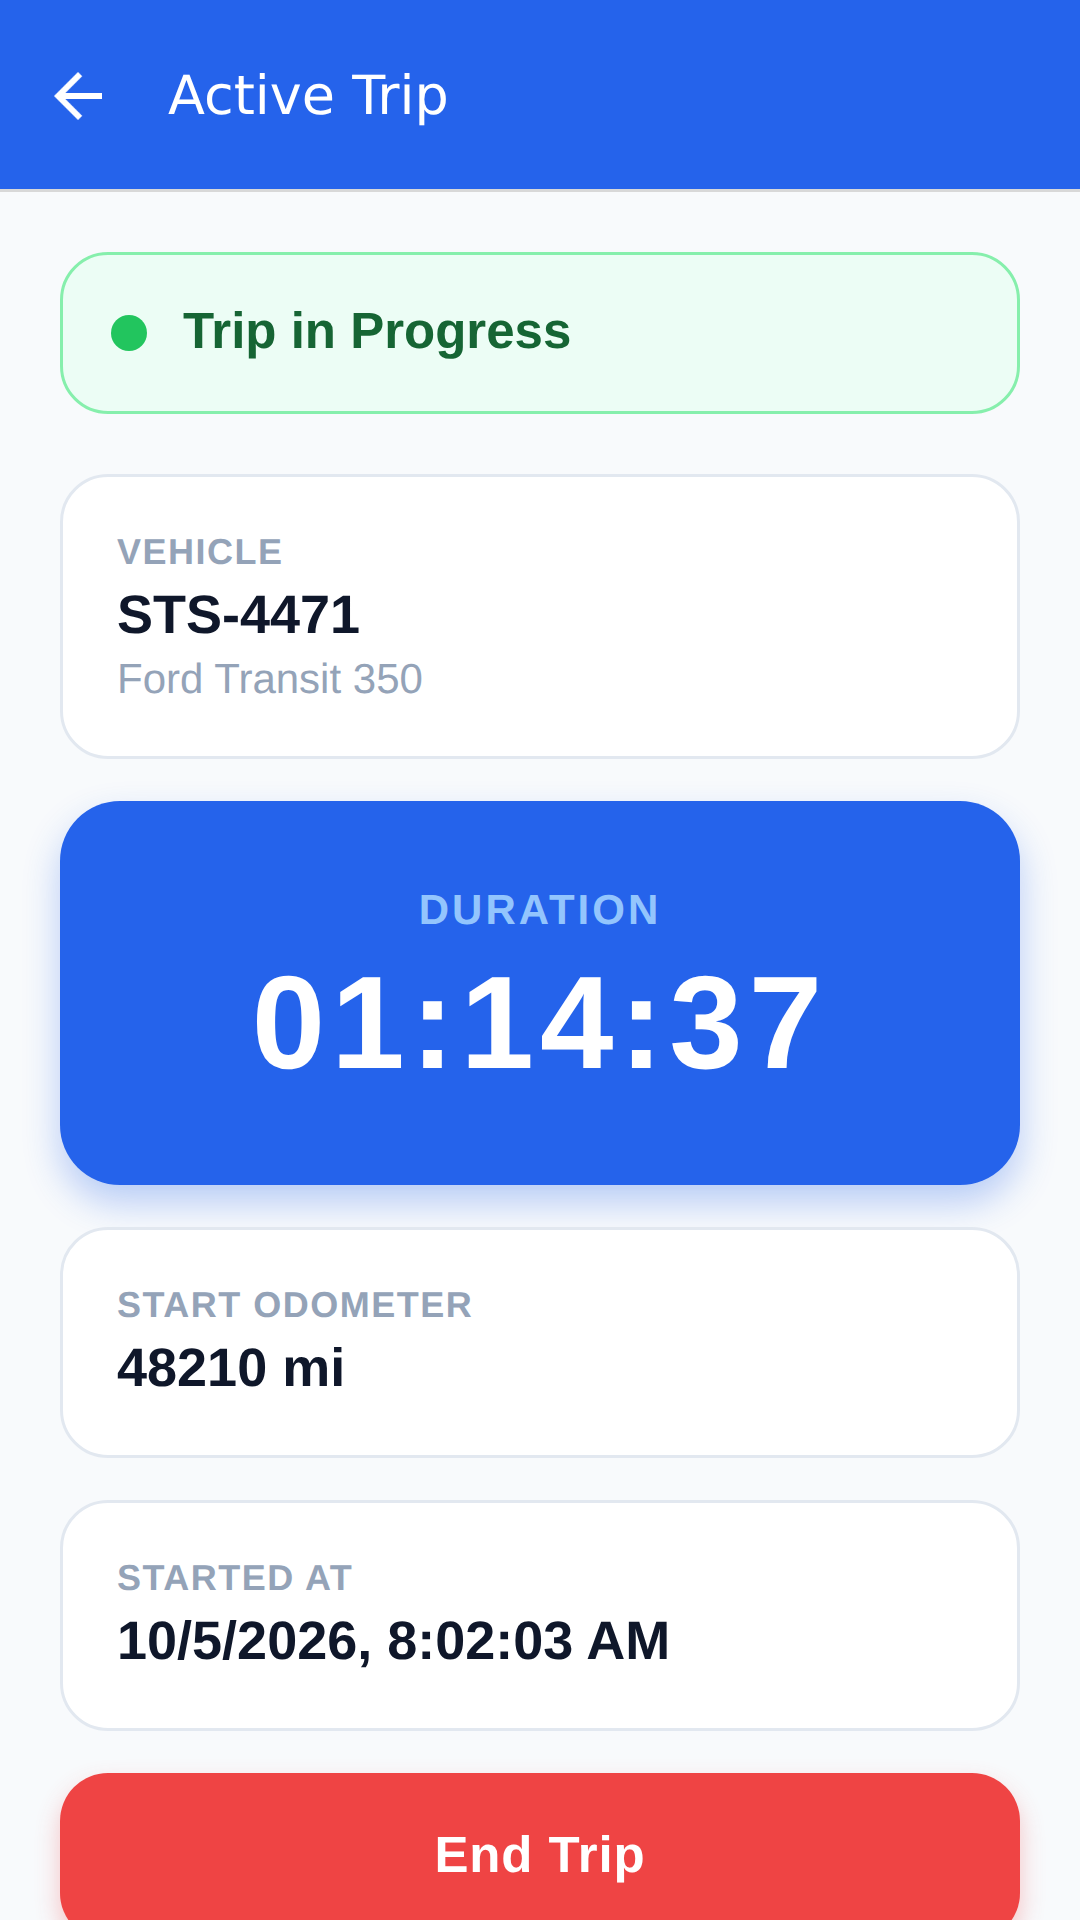
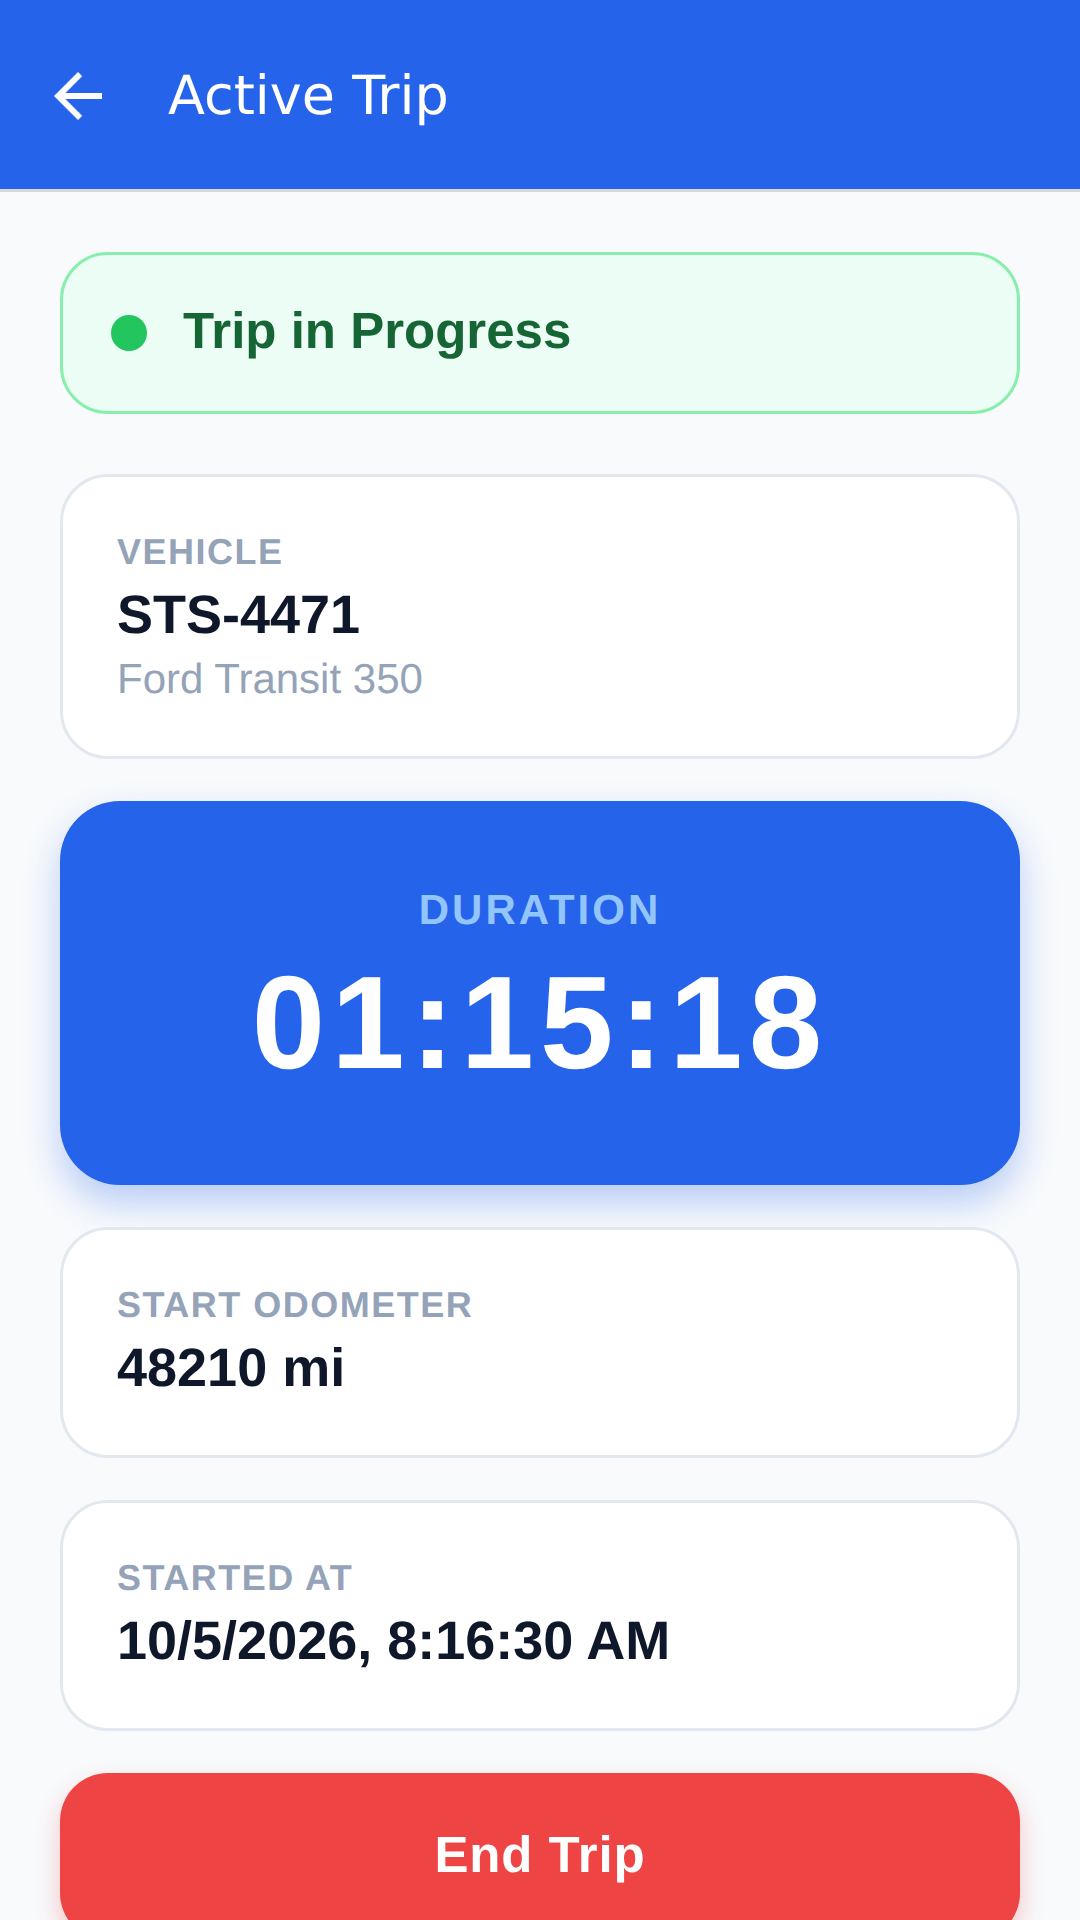
Name the app STS Driver App in its own UI
The login screen and the home header still read "Fleet Driver" while
app.json, the Play listing and the package name all say "STS Driver
App". A reviewer comparing the listing to the running app saw two
different names, which feeds the same rejection the screenshots just
fixed.

The store screenshots are regenerated from the renamed build, since the
old ones carried "Fleet Driver" in the header.

Claude-Session: https://claude.ai/code/session_013W4HwfVWJFtUSKnsH6aHXv

Changed region(s): [[0.6111, 0.5, 0.7639, 0.5625], [0.4889, 0.5, 0.5806, 0.5625], [0.3972, 0.8438, 0.5194, 0.875]]

diff --git a/driver-app/App.tsx b/driver-app/App.tsx
@@ -29,7 +29,7 @@ function AppNavigator() {
         </>
       ) : (
         <>
-          <Stack.Screen name="Home" component={HomeScreen} options={{ title: 'Fleet Driver' }} />
+          <Stack.Screen name="Home" component={HomeScreen} options={{ title: 'STS Driver App' }} />
           <Stack.Screen name="StartTrip" component={StartTripScreen} options={{ title: 'Start Trip' }} />
           <Stack.Screen name="ActiveTrip" component={ActiveTripScreen} options={{ title: 'Active Trip', headerBackVisible: false }} />
           <Stack.Screen name="EndTrip" component={EndTripScreen} options={{ title: 'End Trip' }} />

diff --git a/driver-app/src/screens/LoginScreen.tsx b/driver-app/src/screens/LoginScreen.tsx
@@ -30,7 +30,7 @@ export default function LoginScreen() {
     <View style={styles.container}>
       <View style={styles.header}>
         <Image source={require('../../assets/logo.png')} style={styles.logo} resizeMode="contain" />
-        <Text style={styles.title}>Fleet Driver</Text>
+        <Text style={styles.title}>STS Driver App</Text>
         <Text style={styles.subtitle}>Sign in to start your shift</Text>
       </View>
 
